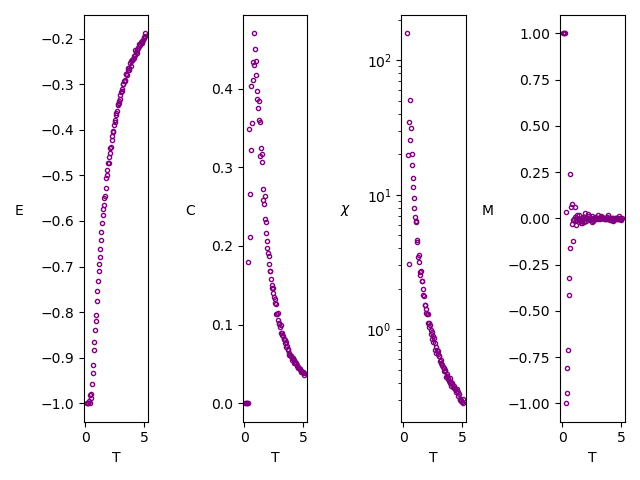
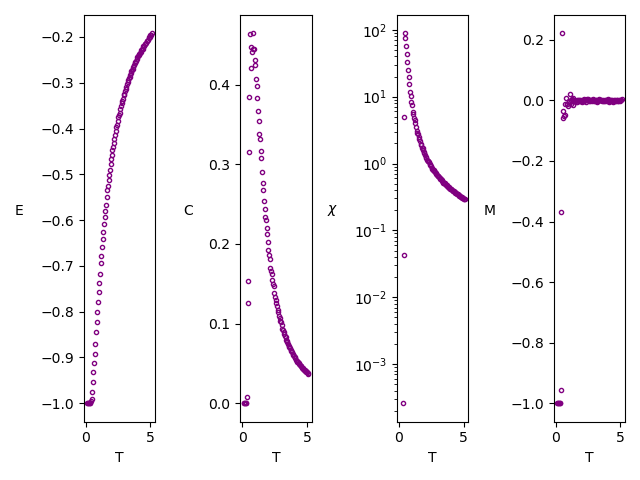
ran sim with 1 million

diff --git a/ising_analytical.py b/ising_analytical.py
@@ -26,7 +26,7 @@ def metropolis(n):
     for T in temp_array:
         temp_energy_array = []
         temp_magnetization_array = []
-        for i in range(0, 100000):
+        for i in range(0, 1000000):
             index_to_flip = rng.integers(n)
             new_state = state.copy()
             new_state[index_to_flip] = -new_state[index_to_flip]
